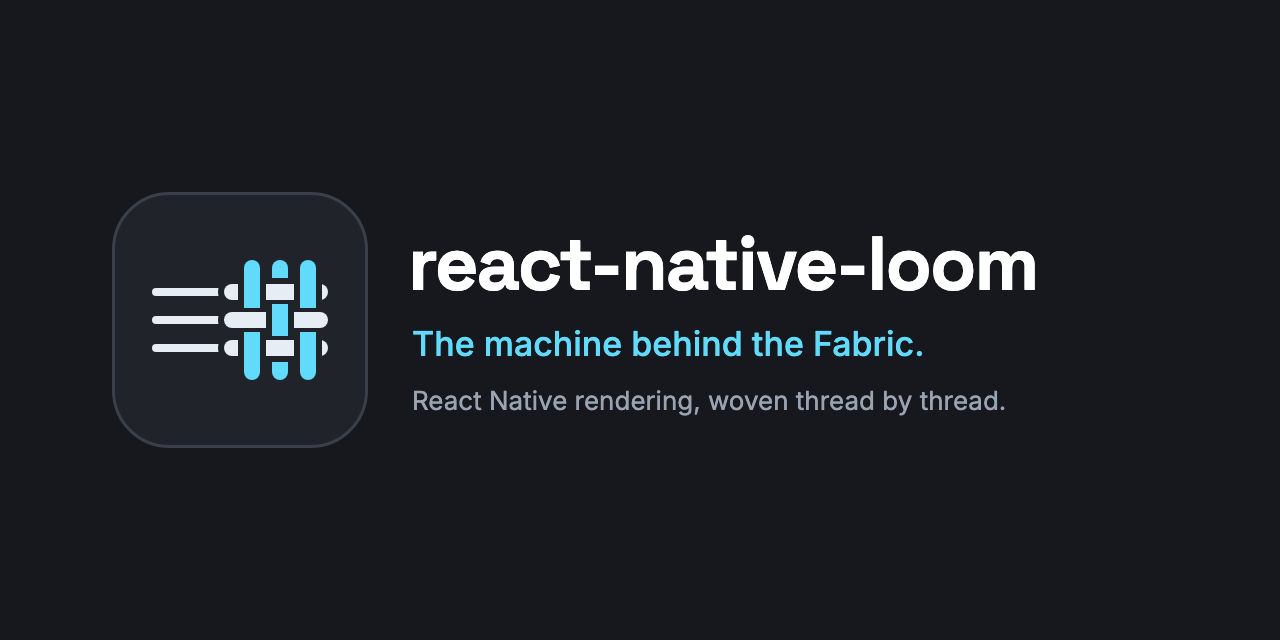
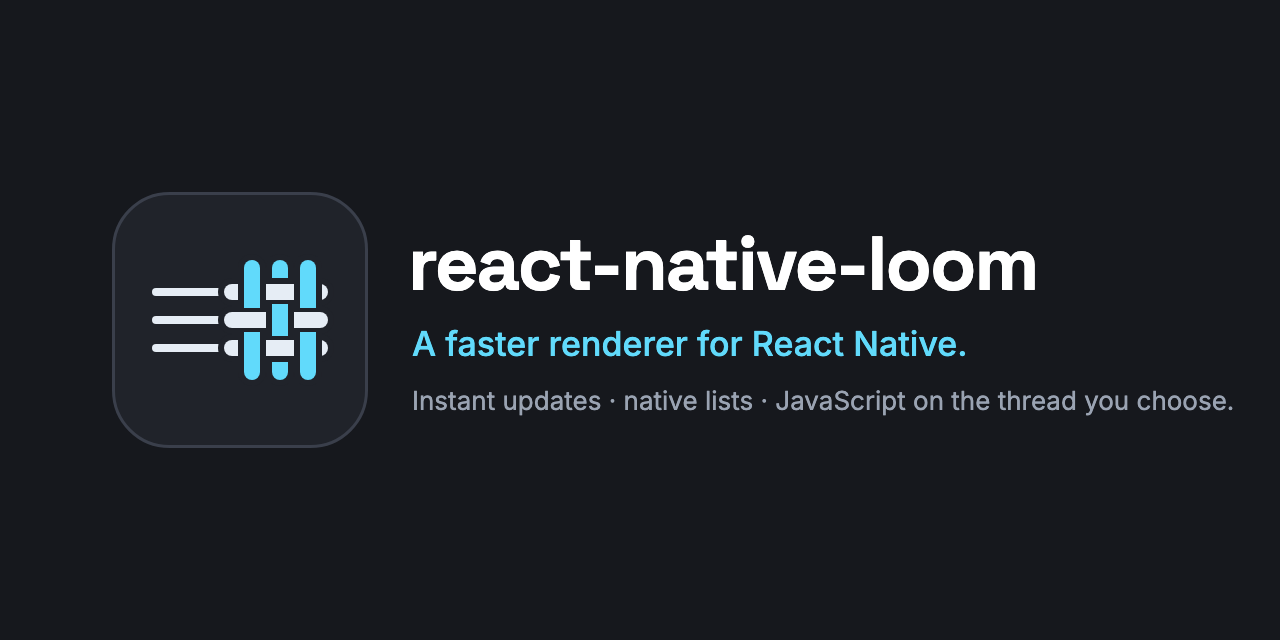
chore(brand): update the social preview

Changed region(s): [[0.3125, 0.5938, 0.9688, 0.6562], [0.3125, 0.5, 0.75, 0.5625]]

diff --git a/brand/generate.py b/brand/generate.py
@@ -148,7 +148,7 @@ section{{padding:32px 64px 56px}} h2{{margin:0 0 20px;font-size:18px}}
 .num{{font-size:13px;font-weight:600}} .name{{font-size:17px;font-weight:600}}
 </style></head><body>
 <header><h1>Loom — logo concepts</h1>
-<p>react-native-loom: the machine behind the Fabric. Colours from React Native's palette; each SVG here is a standalone tile.</p></header>
+<p>react-native-loom: a faster renderer for React Native. Colours from React Native's palette; each SVG here is a standalone tile.</p></header>
 {"".join(sections)}</body></html>'''
     with open(os.path.join(CONCEPTS_DIR, 'index.html'), 'w') as out:
         out.write(page)
@@ -189,15 +189,15 @@ def social_preview(p):
     icon = tile(threads_into_fabric, (96, 96), (128, 128), 28, p, 'Loom')
     inner = icon.split('>', 1)[1].rsplit('</svg>', 1)[0]
     return (f'<svg xmlns="http://www.w3.org/2000/svg" viewBox="0 0 1280 640" width="1280" height="640" '
-            f'role="img" aria-label="react-native-loom: the machine behind the Fabric">{FONT_IMPORT}'
+            f'role="img" aria-label="react-native-loom: a faster renderer for React Native">{FONT_IMPORT}'
             f'<rect width="1280" height="640" fill="#16181D"/>'
             f'<g transform="translate(112 192) scale(2)">{inner}</g>'
             f'<text x="408" y="290" font-family="Space Grotesk, Inter, sans-serif" font-size="76" font-weight="700" '
             f'letter-spacing="-2" fill="#FFFFFF">react-native-loom</text>'
             f'<text x="412" y="356" font-family="Inter, sans-serif" font-size="34" font-weight="500" fill="#61DAFB">'
-            f'The machine behind the Fabric.</text>'
+            f'A faster renderer for React Native.</text>'
             f'<text x="412" y="410" font-family="Inter, sans-serif" font-size="26" fill="#9AA3B2">'
-            f'React Native rendering, woven thread by thread.</text></svg>\n')
+            f'Instant updates · native lists · JavaScript on the thread you choose.</text></svg>\n')
 
 
 def final_set():
